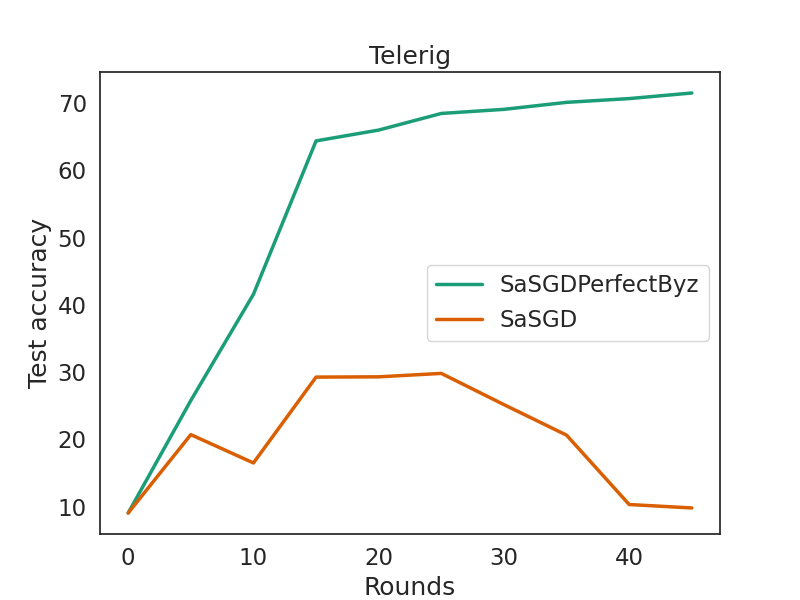
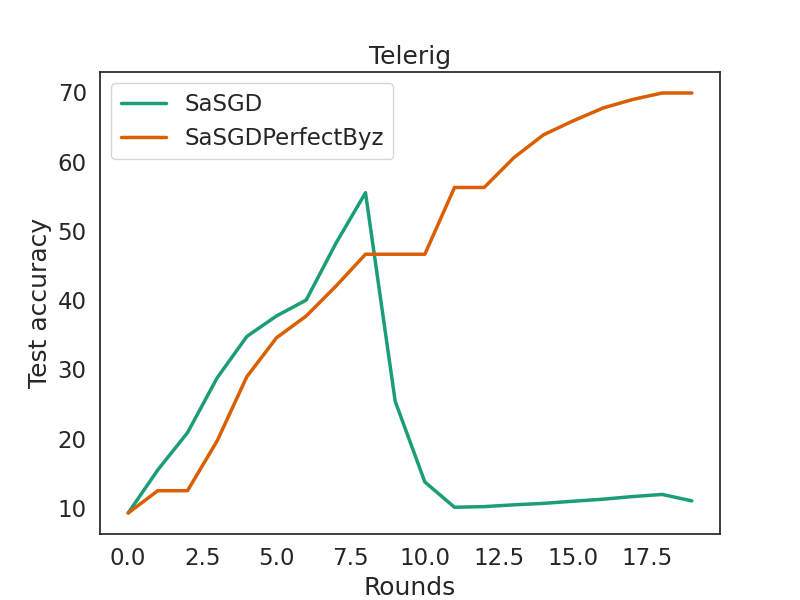
Configure test interval and batch size

diff --git a/asyncfl/scheduler.py b/asyncfl/scheduler.py
@@ -140,7 +140,7 @@ class Scheduler:
     
     # def run_no_tasks(self, num_rounds, ct_clients=[], progress_disabled=False, position=0, add_descr=""):
     # def run_sync_tasks(self, num_rounds, ct_clients=[], progress_disabled=False, position=0, add_descr="", client_participation=1.0):
-    def execute(self, num_rounds, ct_clients=[], progress_disabled=False, position=0, add_descr="", client_participation=1.0, fl_type: str = 'async'):
+    def execute(self, num_rounds, ct_clients=[], progress_disabled=False, position=0, add_descr="", client_participation=1.0, fl_type: str = 'async', batch_limit = -1, test_frequency = 25):
         
         if fl_type != 'sync':
             # Compute the clients server interactions
@@ -169,9 +169,9 @@ class Scheduler:
 
         # Iterate rounds
         if fl_type == 'sync':
-            server_metrics, bft_telemetry = self._sync_exec_loop(num_rounds, server, clients, client_participation, position, add_descr, batch_limit = -1, test_frequency=5)
+            server_metrics, bft_telemetry = self._sync_exec_loop(num_rounds, server, clients, client_participation, position, add_descr, batch_limit = batch_limit, test_frequency=test_frequency)
         else:
-            server_metrics, model_age_stats, bft_telemetry = self._async_exec_loop(num_rounds, server, clients, interaction_sequence, position, add_descr, batch_limit=-1, test_frequency=5)
+            server_metrics, model_age_stats, bft_telemetry = self._async_exec_loop(num_rounds, server, clients, interaction_sequence, position, add_descr, batch_limit=batch_limit, test_frequency=test_frequency)
 
 
         return server_metrics, model_age_stats, bft_telemetry
@@ -244,6 +244,10 @@ class Scheduler:
     def run_sync_tasks(
         self, num_rounds, ct_clients=[], progress_disabled=False, position=0, add_descr="", client_participation=1.0
     ):
+        """
+        Deprecated function
+        """
+        raise DeprecationWarning(f"Function '{__name__}' is deprecated")
         """To run Synchronous Federated Learning.
 
         Args:
@@ -328,6 +332,10 @@ class Scheduler:
         return server_metrics, [], server.bft_telemetry
 
     def run_no_tasks(self, num_rounds, ct_clients=[], progress_disabled=False, position=0, add_descr=""):
+        """
+        Deprecated function
+        """
+        raise DeprecationWarning(f"Function '{__name__}' is deprecated")
         """
         To run Asynchronous Federated Learning
         @TODO: Put dict of interaction sequence as argument
@@ -453,6 +461,8 @@ class Scheduler:
                 worker_id = 0
             cfg["client_participartion"] = cfg.get("client_participartion", 1.0)
             cfg["aggregation_type"] = cfg.get("aggregation_type", "async")
+            cfg["eval_interval"] = cfg.get("eval_interval", 25) # Default is server eval after 25 server interactions
+            cfg["client_batch_size"] = cfg.get("client_batch_size", -1) # Default is full epoch
             results = [
                 [
                     *sched.execute(
@@ -460,7 +470,9 @@ class Scheduler:
                         position=worker_id,
                         add_descr=f"[Worker {worker_id}] ",
                         client_participation=cfg["client_participartion"],
-                        fl_type=cfg["aggregation_type"]
+                        fl_type=cfg["aggregation_type"],
+                        batch_limit=cfg["client_batch_size"],
+                        test_frequency=cfg["eval_interval"]
                     )
                 ],
                 safe_cfg,

diff --git a/asyncfl/exps/exp25_perfect_byzantine.py b/asyncfl/exps/exp25_perfect_byzantine.py
@@ -40,7 +40,7 @@ if __name__ == '__main__':
         dataset = 'mnist'
         num_byz_nodes = [3]
         # num_byz_nodes = [0]
-        num_rounds = 50
+        num_rounds = 20
         idx = 1
         repetitions = 1
         exp_id = 0
@@ -48,8 +48,8 @@ if __name__ == '__main__':
         # server_lr = 0.5
         num_clients = 10
         attacks = [
-            # [AFL.NGClient, {'magnitude': 100,'sampler': 'uniform','sampler_args': {}}],
-            [AFL.RDCLient, {'a_atk':0.5, 'sampler': 'uniform', 'sampler_args': {}}],
+            [AFL.NGClient, {'magnitude': 100,'sampler': 'uniform','sampler_args': {}}],
+            # [AFL.RDCLient, {'a_atk':0.05, 'sampler': 'uniform', 'sampler_args': {}}],
         ]
         
         servers = [
@@ -80,6 +80,8 @@ if __name__ == '__main__':
                 'aggregation_type': 'async',
                 'name': f'{server_name}-{key_name}',
                 'num_rounds': num_rounds,
+                'client_batch_size': -1,
+                'eval_interval': 1,
                 'clients': {
                         'client': AFL.Client,
                         'client_args': {
